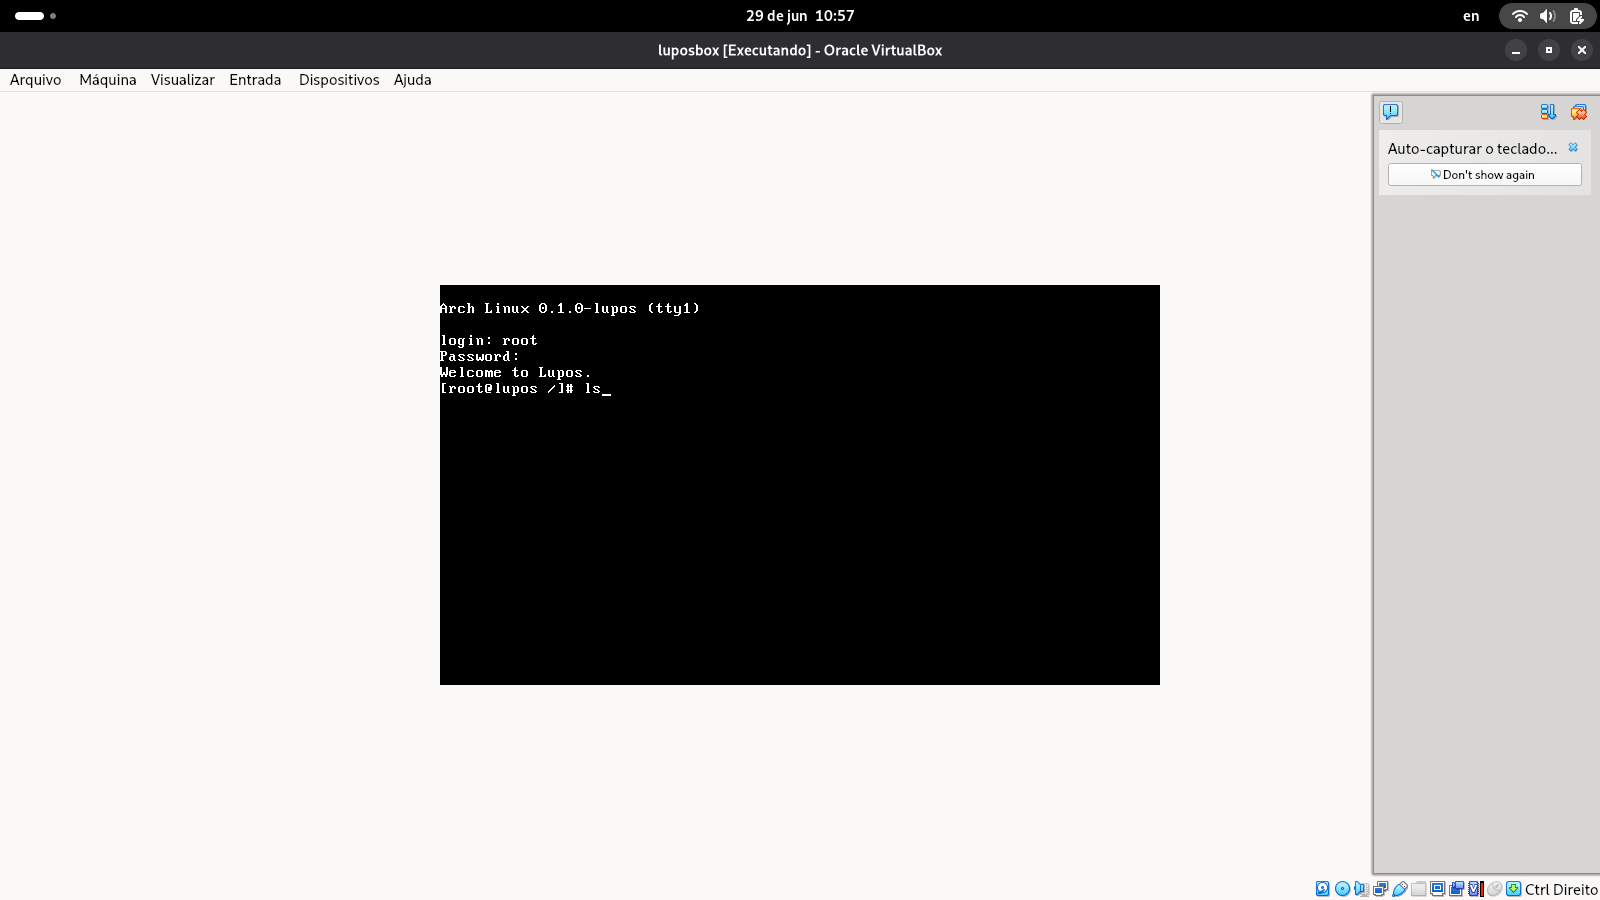
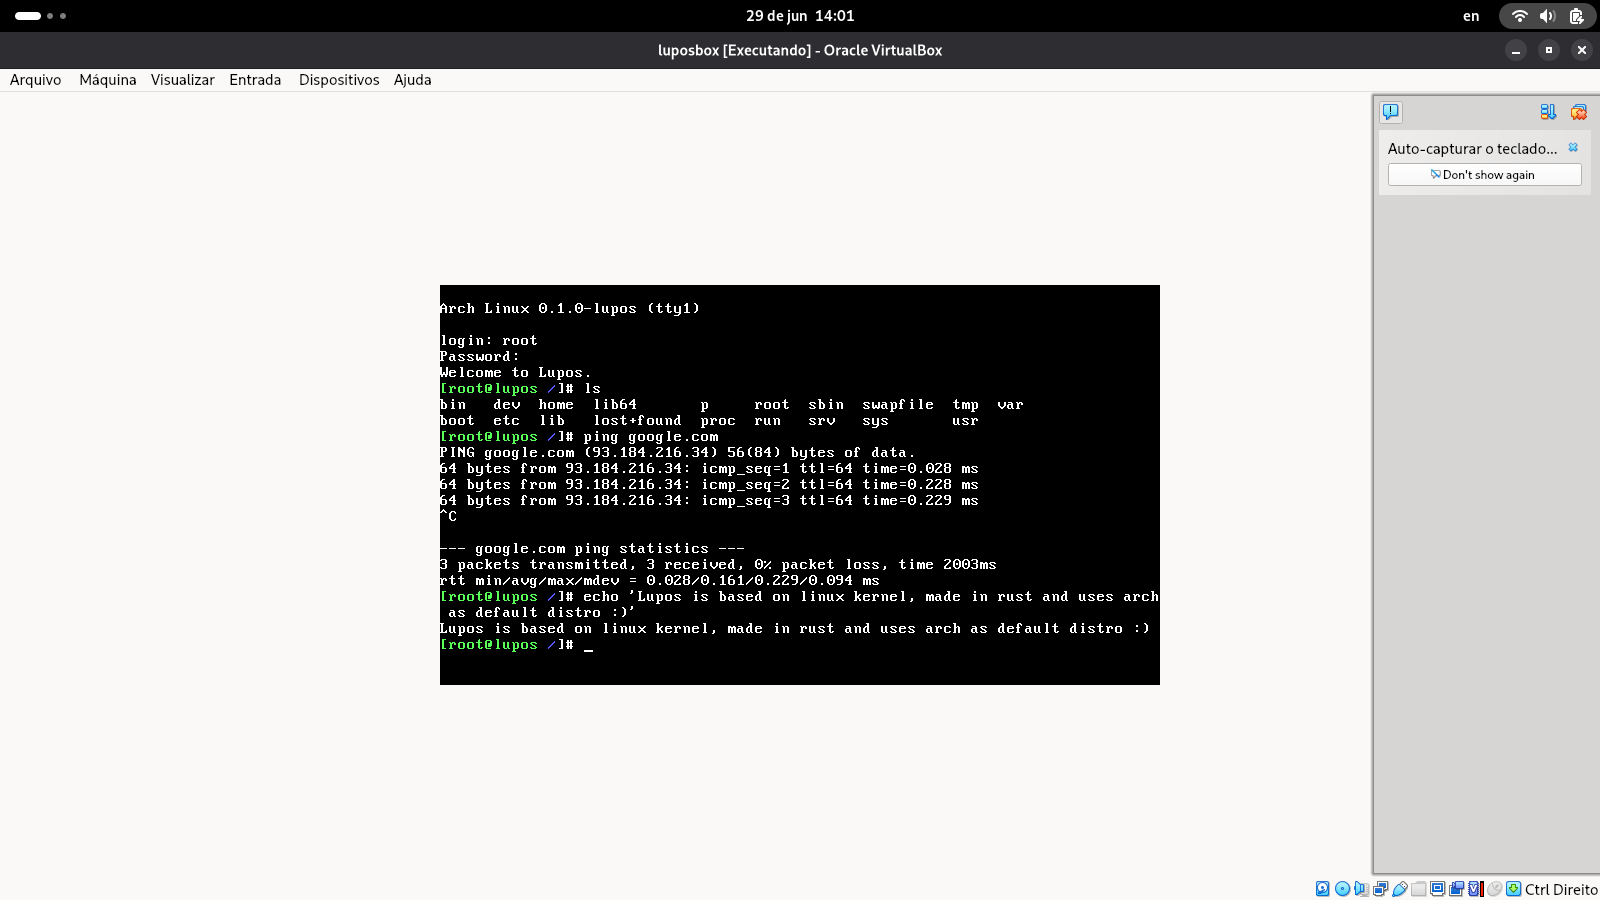
fixes bash colors and update eg image

diff --git a/xtask/src/lib.rs b/xtask/src/lib.rs
@@ -331,20 +331,22 @@ const LOGIN_PROFILE: &str = concat!(
     // framebuffer is slow to repaint, and an interactive user can still run
     // `clear` explicitly when they want a fresh screen.
 );
+const COLOR_BASH_PS1_ASSIGNMENT: &str =
+    "PS1='\\[\\033[01;32m\\][\\u@\\h\\[\\033[00m\\] \\[\\033[01;34m\\]\\W\\[\\033[00m\\]]\\$ '";
 const LOGIN_BASH_BASHRC: &str = concat!(
     "[[ $- != *i* ]] && return\n",
-    "[[ \"$PS1\" = '\\s-\\v\\$ ' ]] && PS1='[\\u@\\h \\W]\\$ '\n",
+    "[[ \"$PS1\" = '\\s-\\v\\$ ' ]] && PS1='\\[\\033[01;32m\\][\\u@\\h\\[\\033[00m\\] \\[\\033[01;34m\\]\\W\\[\\033[00m\\]]\\$ '\n",
 );
 const ROOT_LOGIN_BASHRC: &str = concat!(
     ". /etc/bash.bashrc 2>/dev/null || true\n",
     "if [ \"$PWD\" = \"$HOME\" ]; then cd /; fi\n",
-    "PS1='[\\u@\\h \\W]\\$ '\n",
+    "PS1='\\[\\033[01;32m\\][\\u@\\h\\[\\033[00m\\] \\[\\033[01;34m\\]\\W\\[\\033[00m\\]]\\$ '\n",
 );
 const ROOT_LOGIN_BASH_PROFILE: &str = concat!(
     ". /etc/profile 2>/dev/null || true\n",
     ". ~/.bashrc 2>/dev/null || true\n",
     "if [ \"$PWD\" = \"$HOME\" ]; then cd /; fi\n",
-    "PS1='[\\u@\\h \\W]\\$ '\n",
+    "PS1='\\[\\033[01;32m\\][\\u@\\h\\[\\033[00m\\] \\[\\033[01;34m\\]\\W\\[\\033[00m\\]]\\$ '\n",
 );
 // Home directory skeleton files.
 // Reference: common bash /etc/skel contents installed by pam_mkhomedir / adduser(8).
@@ -356,6 +358,9 @@ const LUPOS_USER_BASHRC: &str = concat!(
     "HISTSIZE=1000\n",
     "HISTFILESIZE=2000\n",
     "shopt -s checkwinsize\n",
+    "alias ls='ls --color=auto'\n",
+    "alias grep='grep --color=auto'\n",
+    "PS1='\\[\\033[01;32m\\][\\u@\\h\\[\\033[00m\\] \\[\\033[01;34m\\]\\W\\[\\033[00m\\]]\\$ '\n",
 );
 const LUPOS_USER_BASH_PROFILE: &str = "# ~/.bash_profile\n[ -f ~/.bashrc ] && . ~/.bashrc\n";
 
@@ -367,6 +372,9 @@ const SKEL_BASHRC: &str = concat!(
     "HISTSIZE=1000\n",
     "HISTFILESIZE=2000\n",
     "shopt -s checkwinsize\n",
+    "alias ls='ls --color=auto'\n",
+    "alias grep='grep --color=auto'\n",
+    "PS1='\\[\\033[01;32m\\][\\u@\\h\\[\\033[00m\\] \\[\\033[01;34m\\]\\W\\[\\033[00m\\]]\\$ '\n",
 );
 const SKEL_BASH_PROFILE: &str = "# ~/.bash_profile\n[ -f ~/.bashrc ] && . ~/.bashrc\n";
 const SKEL_BASH_LOGOUT: &str = "# ~/.bash_logout\nclear\n";
@@ -4275,6 +4283,22 @@ fn staged_userland_bytes(stage: Option<&Path>, candidates: &[&str]) -> Option<Ve
     None
 }
 
+fn colorized_bash_prompt_config(bytes: Vec<u8>) -> Vec<u8> {
+    String::from_utf8_lossy(&bytes)
+        .replace("PS1='[\\u@\\h \\W]\\$ '", COLOR_BASH_PS1_ASSIGNMENT)
+        .into_bytes()
+}
+
+fn staged_bash_startup_config(
+    stage: Option<&Path>,
+    candidates: &[&str],
+    fallback: &[u8],
+) -> Vec<u8> {
+    colorized_bash_prompt_config(
+        staged_userland_bytes(stage, candidates).unwrap_or_else(|| fallback.to_vec()),
+    )
+}
+
 fn colon_record_key(line: &str) -> Option<&str> {
     let (key, _) = line.split_once(':')?;
     (!key.is_empty()).then_some(key)
@@ -4600,8 +4624,7 @@ fn sysv_login_userland_files_with_stage_and_options(
         initramfs_file(
             "etc/bash.bashrc",
             0o100644,
-            staged_userland_bytes(stage, &["etc/bash.bashrc"])
-                .unwrap_or_else(|| LOGIN_BASH_BASHRC.as_bytes().to_vec()),
+            staged_bash_startup_config(stage, &["etc/bash.bashrc"], LOGIN_BASH_BASHRC.as_bytes()),
         ),
         initramfs_file("root/.bashrc", 0o100644, ROOT_LOGIN_BASHRC.as_bytes()),
         initramfs_file(
@@ -4611,9 +4634,9 @@ fn sysv_login_userland_files_with_stage_and_options(
         ),
         // Home directory skeleton files mirroring common /etc/skel bash defaults.
         // adduser(8)/pam_mkhomedir(8) copies these to new home directories on real systems.
-        initramfs_file("home/lupos/.bashrc",       0o100644, staged_userland_bytes(stage, &["home/lupos/.bashrc", "etc/skel/.bashrc"]).unwrap_or_else(|| LUPOS_USER_BASHRC.as_bytes().to_vec())),
+        initramfs_file("home/lupos/.bashrc",       0o100644, staged_bash_startup_config(stage, &["home/lupos/.bashrc", "etc/skel/.bashrc"], LUPOS_USER_BASHRC.as_bytes())),
         initramfs_file("home/lupos/.bash_profile", 0o100644, staged_userland_bytes(stage, &["home/lupos/.bash_profile", "etc/skel/.bash_profile"]).unwrap_or_else(|| LUPOS_USER_BASH_PROFILE.as_bytes().to_vec())),
-        initramfs_file("etc/skel/.bashrc",         0o100644, staged_userland_bytes(stage, &["etc/skel/.bashrc"]).unwrap_or_else(|| SKEL_BASHRC.as_bytes().to_vec())),
+        initramfs_file("etc/skel/.bashrc",         0o100644, staged_bash_startup_config(stage, &["etc/skel/.bashrc"], SKEL_BASHRC.as_bytes())),
         initramfs_file("etc/skel/.bash_profile",   0o100644, staged_userland_bytes(stage, &["etc/skel/.bash_profile"]).unwrap_or_else(|| SKEL_BASH_PROFILE.as_bytes().to_vec())),
         initramfs_file("etc/skel/.bash_logout",    0o100644, staged_userland_bytes(stage, &["etc/skel/.bash_logout"]).unwrap_or_else(|| SKEL_BASH_LOGOUT.as_bytes().to_vec())),
         initramfs_file("etc/motd", 0o100644, LOGIN_MOTD.as_bytes()),
@@ -4843,15 +4866,19 @@ fn systemd_login_userland_files_with_stage_and_options(
         ),
         initramfs_file("etc/nsswitch.conf", 0o100644, SYSTEMD_NSSWITCH.as_bytes()),
         initramfs_file("etc/profile", 0o100644, staged_config("etc/profile", LOGIN_PROFILE.as_bytes())),
-        initramfs_file("etc/bash.bashrc", 0o100644, staged_config("etc/bash.bashrc", LOGIN_BASH_BASHRC.as_bytes())),
+        initramfs_file(
+            "etc/bash.bashrc",
+            0o100644,
+            colorized_bash_prompt_config(staged_config("etc/bash.bashrc", LOGIN_BASH_BASHRC.as_bytes())),
+        ),
         // Root keeps Arch's normal HOME=/root, but its first interactive login
         // starts at / so plain `ls` shows the real root filesystem.
         initramfs_file("root/.bashrc", 0o100644, ROOT_LOGIN_BASHRC.as_bytes()),
         initramfs_file("root/.bash_profile", 0o100644, ROOT_LOGIN_BASH_PROFILE.as_bytes()),
         // Mirror Arch's user startup files when a real stage exists.
-        initramfs_file("home/lupos/.bashrc",       0o100644, staged_userland_bytes(Some(stage), &["home/lupos/.bashrc", "etc/skel/.bashrc"]).unwrap_or_else(|| LUPOS_USER_BASHRC.as_bytes().to_vec())),
+        initramfs_file("home/lupos/.bashrc",       0o100644, staged_bash_startup_config(Some(stage), &["home/lupos/.bashrc", "etc/skel/.bashrc"], LUPOS_USER_BASHRC.as_bytes())),
         initramfs_file("home/lupos/.bash_profile", 0o100644, staged_userland_bytes(Some(stage), &["home/lupos/.bash_profile", "etc/skel/.bash_profile"]).unwrap_or_else(|| LUPOS_USER_BASH_PROFILE.as_bytes().to_vec())),
-        initramfs_file("etc/skel/.bashrc",         0o100644, staged_config("etc/skel/.bashrc", SKEL_BASHRC.as_bytes())),
+        initramfs_file("etc/skel/.bashrc",         0o100644, colorized_bash_prompt_config(staged_config("etc/skel/.bashrc", SKEL_BASHRC.as_bytes()))),
         initramfs_file("etc/skel/.bash_profile",   0o100644, staged_config("etc/skel/.bash_profile", SKEL_BASH_PROFILE.as_bytes())),
         initramfs_file("etc/skel/.bash_logout",    0o100644, staged_config("etc/skel/.bash_logout", SKEL_BASH_LOGOUT.as_bytes())),
         initramfs_file("etc/motd", 0o100644, staged_config("etc/motd", LOGIN_MOTD.as_bytes())),
@@ -9672,7 +9699,11 @@ fn direct_stage_login_root_disk_overlay_files(
             LOGIN_PAM_SU.as_bytes().to_vec(),
         ),
         initramfs_file("etc/profile", 0o100644, staged_config("etc/profile", LOGIN_PROFILE.as_bytes())),
-        initramfs_file("etc/bash.bashrc", 0o100644, staged_config("etc/bash.bashrc", LOGIN_BASH_BASHRC.as_bytes())),
+        initramfs_file(
+            "etc/bash.bashrc",
+            0o100644,
+            colorized_bash_prompt_config(staged_config("etc/bash.bashrc", LOGIN_BASH_BASHRC.as_bytes())),
+        ),
         initramfs_file("root", 0o40700, Vec::new()),
         initramfs_file("root/.bashrc", 0o100644, ROOT_LOGIN_BASHRC.as_bytes()),
         initramfs_file("root/.bash_profile", 0o100644, ROOT_LOGIN_BASH_PROFILE.as_bytes()),
@@ -9682,14 +9713,14 @@ fn direct_stage_login_root_disk_overlay_files(
         initramfs_file(
             "home/lupos/.bashrc",
             0o100644,
-            staged_config_any(&["home/lupos/.bashrc", "etc/skel/.bashrc"], LUPOS_USER_BASHRC.as_bytes()),
+            colorized_bash_prompt_config(staged_config_any(&["home/lupos/.bashrc", "etc/skel/.bashrc"], LUPOS_USER_BASHRC.as_bytes())),
         ),
         initramfs_file(
             "home/lupos/.bash_profile",
             0o100644,
             staged_config_any(&["home/lupos/.bash_profile", "etc/skel/.bash_profile"], LUPOS_USER_BASH_PROFILE.as_bytes()),
         ),
-        initramfs_file("etc/skel/.bashrc", 0o100644, staged_config("etc/skel/.bashrc", SKEL_BASHRC.as_bytes())),
+        initramfs_file("etc/skel/.bashrc", 0o100644, colorized_bash_prompt_config(staged_config("etc/skel/.bashrc", SKEL_BASHRC.as_bytes()))),
         initramfs_file(
             "etc/skel/.bash_profile",
             0o100644,
@@ -20008,6 +20039,8 @@ CONFIG_MODULES=y
             fs::read(stage.join("etc/bash.bashrc")).expect("read staged /etc/bash.bashrc");
         let stage_skel_bashrc =
             fs::read(stage.join("etc/skel/.bashrc")).expect("read staged skel bashrc");
+        let expected_bash_bashrc = colorized_bash_prompt_config(stage_bash_bashrc);
+        let expected_skel_bashrc = colorized_bash_prompt_config(stage_skel_bashrc);
 
         let initramfs_files = systemd_login_userland_files_with_stage(&stage);
         assert_eq!(
@@ -20017,13 +20050,13 @@ CONFIG_MODULES=y
         );
         assert_eq!(
             initramfs_file_bytes(&initramfs_files, "etc/bash.bashrc"),
-            Some(stage_bash_bashrc.as_slice()),
-            "Arch-backed initramfs login must stage Arch's /etc/bash.bashrc"
+            Some(expected_bash_bashrc.as_slice()),
+            "Arch-backed initramfs login must stage Arch's /etc/bash.bashrc with a colored Bash prompt"
         );
         assert_eq!(
             initramfs_file_bytes(&initramfs_files, "home/lupos/.bashrc"),
-            Some(stage_skel_bashrc.as_slice()),
-            "lupos user startup should come from Arch /etc/skel"
+            Some(expected_skel_bashrc.as_slice()),
+            "lupos user startup should come from Arch /etc/skel with a colored Bash prompt"
         );
         let root_bash_profile = initramfs_file_bytes(&initramfs_files, "root/.bash_profile")
             .expect("root login profile staged");
@@ -20053,13 +20086,13 @@ CONFIG_MODULES=y
         );
         assert_eq!(
             initramfs_file_bytes(&overlay_files, "etc/bash.bashrc"),
-            Some(stage_bash_bashrc.as_slice()),
-            "direct root-disk overlay must preserve Arch's /etc/bash.bashrc"
+            Some(expected_bash_bashrc.as_slice()),
+            "direct root-disk overlay must preserve Arch's /etc/bash.bashrc with a colored Bash prompt"
         );
         assert_eq!(
             initramfs_file_bytes(&overlay_files, "home/lupos/.bashrc"),
-            Some(stage_skel_bashrc.as_slice()),
-            "direct root-disk overlay should seed lupos from Arch /etc/skel"
+            Some(expected_skel_bashrc.as_slice()),
+            "direct root-disk overlay should seed lupos from Arch /etc/skel with a colored Bash prompt"
         );
         let overlay_root_bash_profile = initramfs_file_bytes(&overlay_files, "root/.bash_profile")
             .expect("direct root login profile staged");
@@ -21050,12 +21083,14 @@ CONFIG_MODULES=y
             .expect("/etc/bash.bashrc must be staged with Arch /etc/profile");
         let bash_bashrc_body = core::str::from_utf8(&bash_bashrc.2).expect("bash.bashrc utf-8");
         assert!(
-            bash_bashrc_body.contains("PS1='[\\u@\\h \\W]\\$ '"),
-            "/etc/bash.bashrc must provide Arch's bracketed Bash prompt"
+            bash_bashrc_body.contains(COLOR_BASH_PS1_ASSIGNMENT),
+            "/etc/bash.bashrc must provide an Arch-style bracketed Bash prompt with ANSI colors"
         );
         assert!(
-            !bash_bashrc_body.contains("\\033[01;32m"),
-            "/etc/bash.bashrc must not carry the old colored Lupos PS1 override"
+            bash_bashrc_body.contains("\\033[01;32m")
+                && bash_bashrc_body.contains("\\033[01;34m")
+                && bash_bashrc_body.contains("\\033[00m"),
+            "/etc/bash.bashrc must emit ANSI SGR color sequences for Bash prompts"
         );
         assert!(
             !profile_body.contains("command -v clear") && !profile_body.contains(" then clear"),

diff --git a/src/linux_driver_abi/video/fbdev/core/writer.rs b/src/linux_driver_abi/video/fbdev/core/writer.rs
@@ -739,8 +739,12 @@ mod tests {
     use std::vec::Vec;
 
     fn make_test_writer() -> (Vec<u8>, FramebufferWriter) {
-        let width = 80u32;
-        let height = 48u32;
+        make_test_writer_with_cells(10, 3)
+    }
+
+    fn make_test_writer_with_cells(cols: usize, rows: usize) -> (Vec<u8>, FramebufferWriter) {
+        let width = (cols * font::GLYPH_WIDTH) as u32;
+        let height = (rows * font::GLYPH_HEIGHT) as u32;
         let bpp = 32u8;
         let pitch = width * (bpp as u32 / 8);
         let buf_size = (pitch * height) as usize;
@@ -965,6 +969,26 @@ mod tests {
         assert_eq!(normal_green, 0x0000_aa00);
         assert_eq!(writer.cell_char(0, 0), b'L');
         assert_eq!(writer.cell_char(0, 1), b'x');
+    }
+
+    #[test]
+    fn bash_prompt_sgr_sequences_color_cells_without_artifacts() {
+        let (_buf, mut writer) = make_test_writer_with_cells(20, 3);
+        use core::fmt::Write;
+        write!(
+            writer,
+            "\x1b[01;32m[root@lupos\x1b[00m \x1b[01;34m/\x1b[00m]# "
+        )
+        .unwrap();
+
+        for (col, byte) in b"[root@lupos /]# ".iter().enumerate() {
+            assert_eq!(writer.cell_char(0, col), *byte);
+        }
+        assert_eq!(writer.cells[writer.cell_index(0, 0)].fg, 0x0055_ff55);
+        assert_eq!(writer.cells[writer.cell_index(10, 0)].fg, 0x0055_ff55);
+        assert_eq!(writer.cells[writer.cell_index(11, 0)].fg, DEFAULT_FG);
+        assert_eq!(writer.cells[writer.cell_index(12, 0)].fg, 0x0055_55ff);
+        assert_eq!(writer.cells[writer.cell_index(13, 0)].fg, DEFAULT_FG);
     }
 
     #[test]

diff --git a/src/kernel/console.rs b/src/kernel/console.rs
@@ -1013,6 +1013,27 @@ mod tests {
     }
 
     #[test]
+    fn bash_prompt_sgr_sequences_color_cells_without_artifacts() {
+        let _guard = TEST_CONSOLE_LOCK.lock();
+        reset_for_tests(20, 3);
+        write_visible_bytes(b"\x1b[01;32m[root@lupos\x1b[00m \x1b[01;34m/\x1b[00m]# ");
+
+        let batch = dirty_batch_for_tests(1).expect("dirty row");
+        let cells = &batch.dirty_rows[0].cells;
+        let rendered = cells
+            .iter()
+            .take(16)
+            .map(|cell| cell.ch)
+            .collect::<Vec<_>>();
+        assert_eq!(rendered.as_slice(), b"[root@lupos /]# ");
+        assert_eq!(cells[0].fg, 0x0055_ff55);
+        assert_eq!(cells[10].fg, 0x0055_ff55);
+        assert_eq!(cells[11].fg, DEFAULT_FG);
+        assert_eq!(cells[12].fg, 0x0055_55ff);
+        assert_eq!(cells[13].fg, DEFAULT_FG);
+    }
+
+    #[test]
     fn systemd_terminal_reset_controls_do_not_render_artifacts() {
         let _guard = TEST_CONSOLE_LOCK.lock();
         reset_for_tests(12, 3);